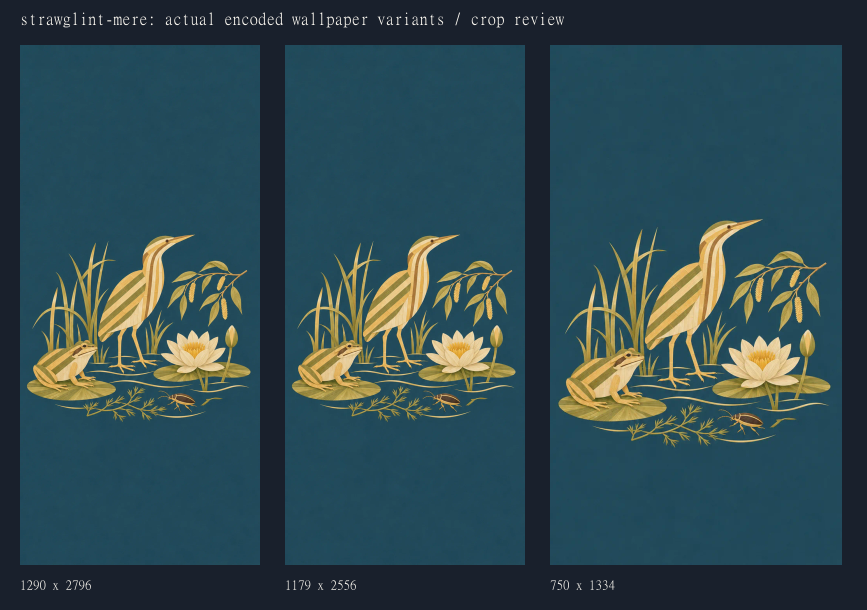
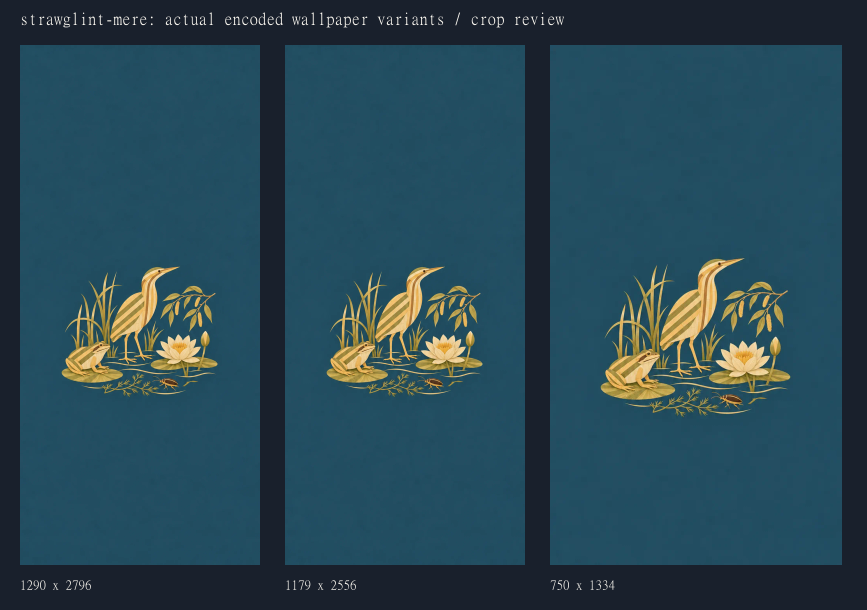
fix(glaze): give Strawglint wallpaper wider phone margins

Changed region(s): [[0.6228, 0.3426, 0.9654, 0.7475], [0.3426, 0.3738, 0.5917, 0.6852], [0.0311, 0.3738, 0.3114, 0.6852]]

diff --git a/apps/glaze/theme-sources/strawglint-mere/README.md b/apps/glaze/theme-sources/strawglint-mere/README.md
@@ -1,1 +1,2 @@
 Original Nature theme candidate for Glaze lane B: flat split rye-straw intarsia, joined long stalk ribbons with longitudinal fibres, straight butt seams and directional satin glints. Five separately generated recognizable freshwater artworks plus coherent separately generated habitat wallpaper, metadata/palette, nine live Clock/Battery/Calendar native plans and small open stalk/node header companion. Actual builder/category/selector/hash/decode checks passed; nine native layouts/value changes, four uniform compact placements, ten encoded rounded artwork layouts with zero foreground clipping and three actual encoded phone wallpaper crops visually reviewed. Approved revised flat frog unchanged; held wrapped frog, bittern short-chip material refinement and three-input wallpaper material/layout repair preserve originals/exact requests/ordered references/source hashes. Actual nine-way material gate and coordinator approval retained. No neighbor image used as a generation input. Source only; coordinator owns shared integration, publication requires explicit Jared OK.
+Final wallpaper-only correction: entire already-flat habitat uniformly reduced for broader blue side/lower screen margins; previous selected flat WP and exact own-scene request retained with earlier material edit lineage. Five artworks, selected artwork sources, native descriptor/palette and saved native previews remain byte-identical (40-file SHA256 proof in qa/layout-pullback).

diff --git a/apps/glaze/theme-sources/strawglint-mere/qa/layout-pullback/README.md b/apps/glaze/theme-sources/strawglint-mere/qa/layout-pullback/README.md
@@ -1,0 +1,1 @@
+Layout-only own-scene edit uniformly pulled back the complete already-flat habitat. Previous selected flat wallpaper retained here; earlier three-input material edit still linked with exact selected source hashes. Five artworks/native geometry/palette unchanged, cryptographic proof in preserved-art-and-native.json. Actual final crop/build review in parent qa.
